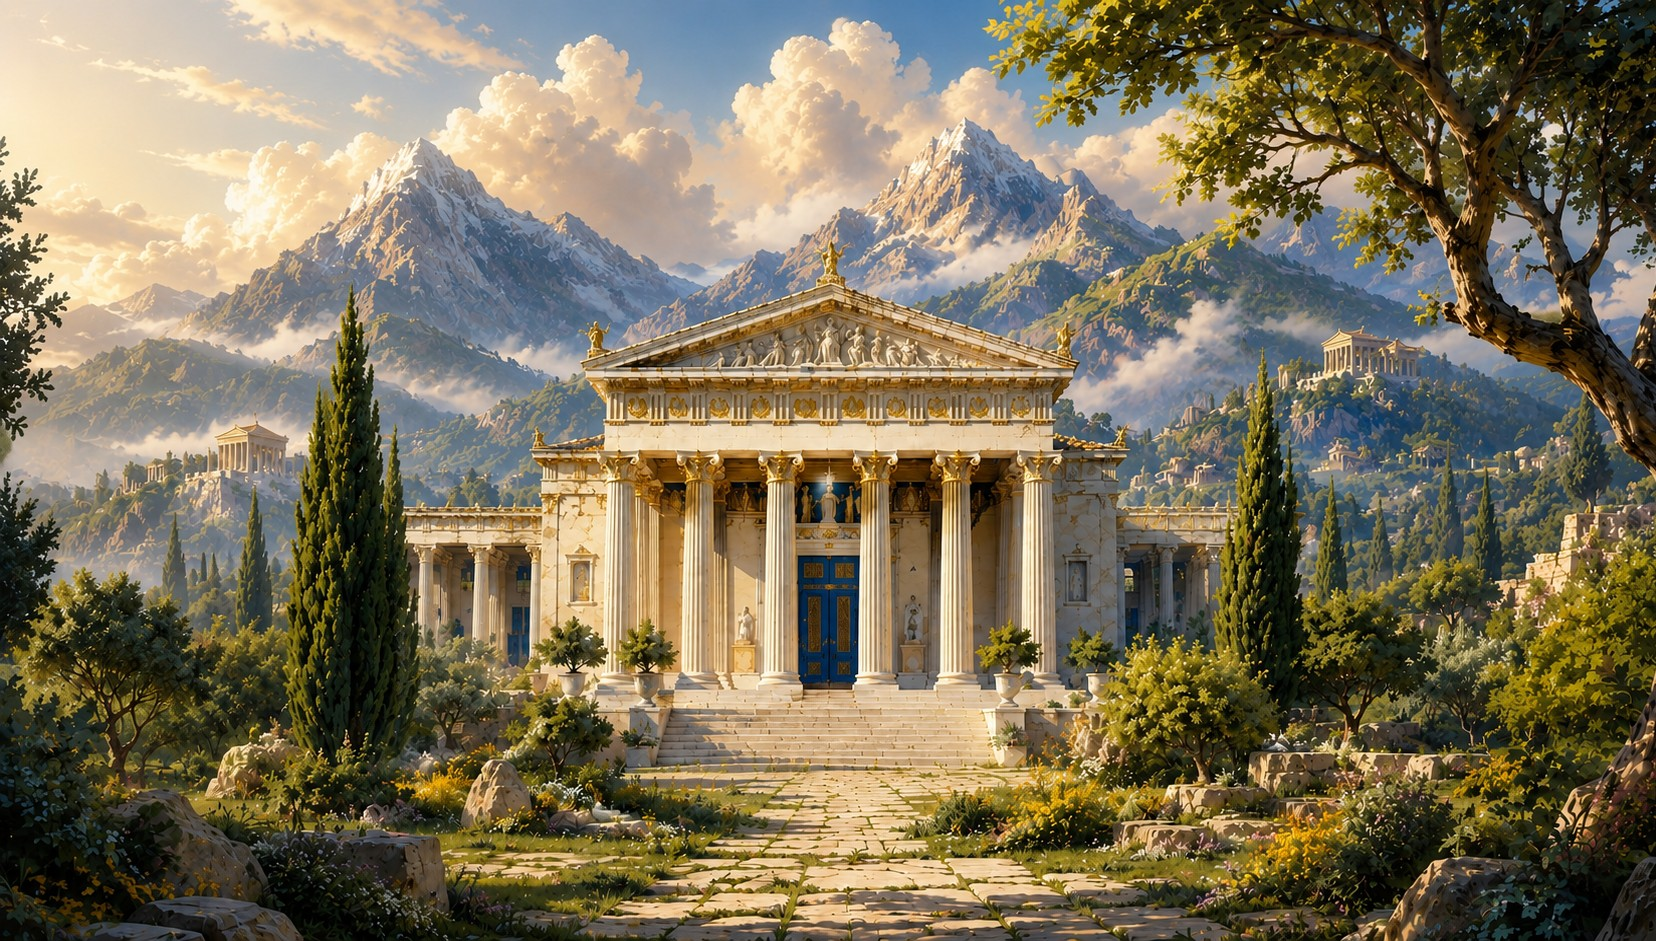
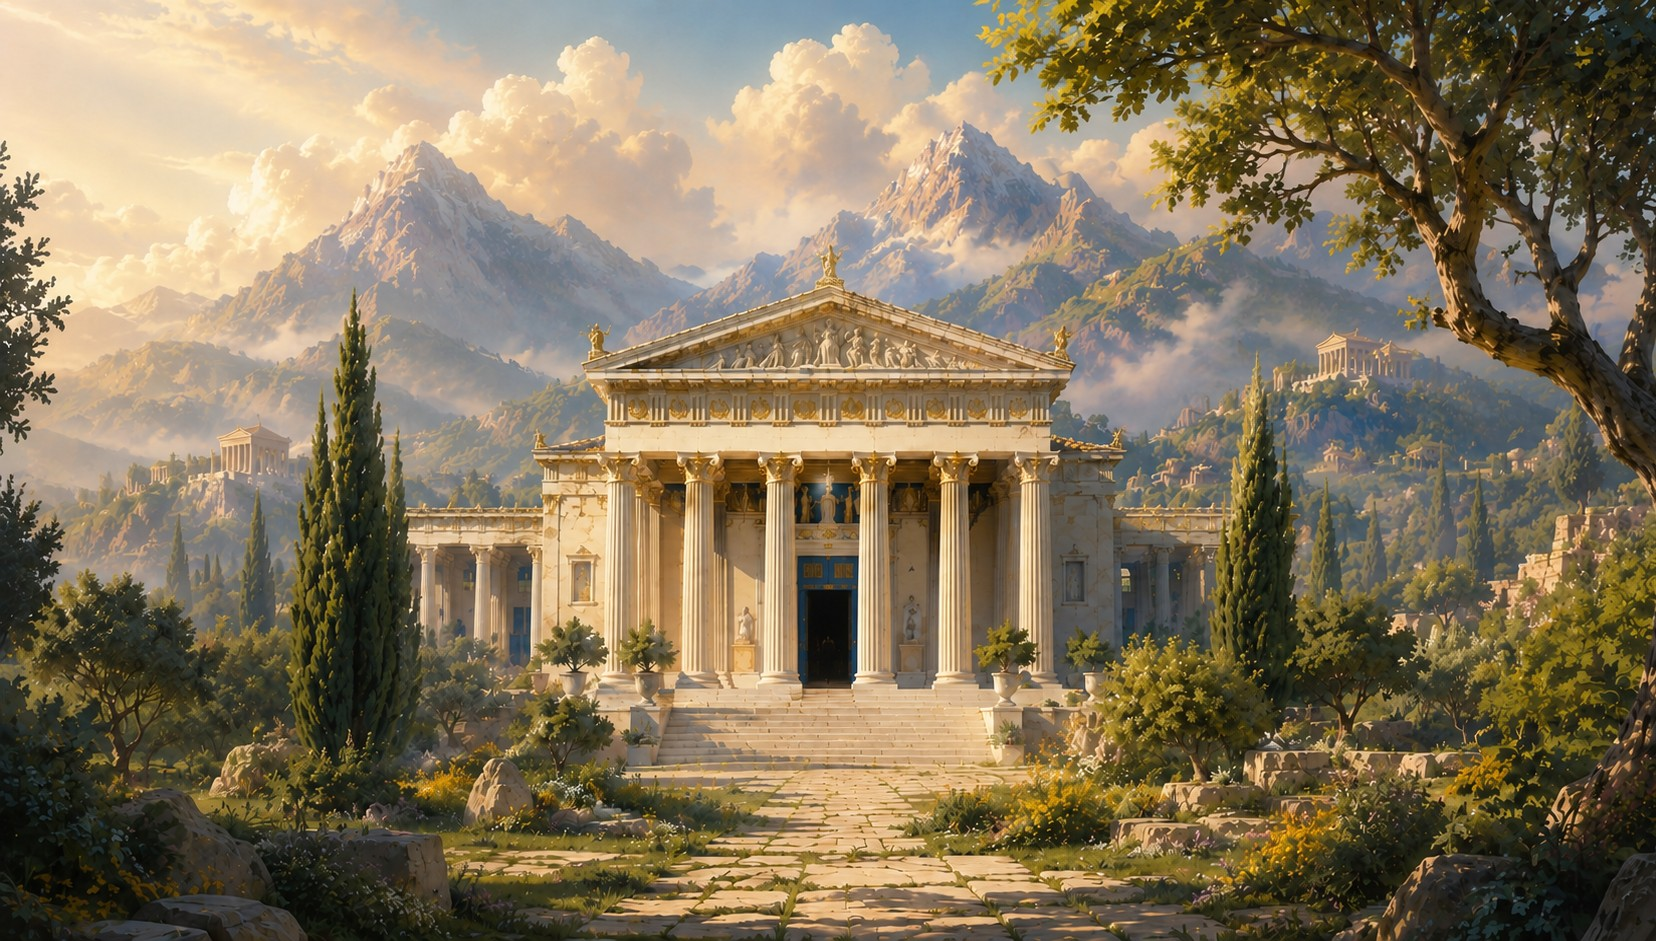
feat: LPヒーローの宮殿扉をスクロール連動で観音開きにする (#264)
ヒーロー背景をドア無し画像に差し替え、宮殿の開口部に左右扉オーバーレイを重ね、スクロール（ズーム）連動で観音開き＋奥から金色の光。扉は背景同様の blur と色調補正で馴染ませ、開口部の比率に合わせてトリミング・サイズ調整。あわせて見出し文言変更・スクロールcue位置調整。

- 扉素材を背景キーイングで透過化＋上下飾りをトリミング → hero-door-left/right.png
- focal point に扉を重ね --zoom で拡大追従、--dooropen(useHeroZoom) で rotateY 観音開き、hero-door-glow
- 扉に blur/saturate/sepia/drop-shadow（馴染み・厚み・重み）、reduced-motion で非表示
- 見出し「言葉をイメージに変えて、／記憶の宮殿をつくる。」、cue を 56px 上げ
- 画像/扉に ?v= キャッシュバスター

frontend のみ。type-check / lint / build 通過。

diff --git a/frontend/src/app/globals.css b/frontend/src/app/globals.css
@@ -135,8 +135,15 @@
 /* --- LP ヒーロー：スクロール連動ズーム（useHeroZoom が --zoom/--fade/--blend を駆動） --- */
 :root {
   --hero-track-vh: 250vh;
+  /* 扉の青ピクセル解析で実測: 画像内の扉中心 x≈50% / y≈63%。
+     object-position をこの値にすると全画面比で扉が viewport の同位置に出る＝
+     focal point・オーバーレイと一致する。 */
   --hero-door-x: 50%;
-  --hero-door-y: 63%;
+  --hero-door-y: 67.5%;
+  /* 扉オーバーレイのサイズ（宮殿の開口部に合わせる）と開き角 */
+  --door-h: 9.6vh;
+  --door-aspect: 0.594;
+  --door-open-deg: 95deg;
 }
 
 .hero-track {
@@ -157,6 +164,7 @@
   --blend: 0;
   --blurpx: 0px;
   --zoombright: 1;
+  --dooropen: 0;
 }
 
 .hero-zoom {
@@ -171,6 +179,73 @@
   transform-origin: var(--hero-door-x) var(--hero-door-y);
   filter: blur(var(--blurpx, 0px)) brightness(var(--zoombright, 1));
   will-change: transform, filter;
+}
+
+/* 宮殿の扉オーバーレイ：focal point に重ね --zoom で一緒に拡大→スクロールで観音開き */
+.hero-doors {
+  position: absolute;
+  left: var(--hero-door-x);
+  top: var(--hero-door-y);
+  height: var(--door-h);
+  /* 宮殿の開口部は細長（幅3.7%×高さ17%＝約0.22）。素材を寄せて充填する */
+  aspect-ratio: var(--door-aspect, 0.36);
+  transform: translate(-50%, -50%) scale(var(--zoom, 1));
+  transform-origin: center;
+  perspective: 1400px;
+  z-index: 5;
+  pointer-events: none;
+  will-change: transform;
+}
+
+.hero-door {
+  position: absolute;
+  top: 0;
+  height: 100%;
+  width: 50%;
+  /* 細長い開口部にあわせて充填（素材より細く）。継ぎ目側を中央へ */
+  object-fit: fill;
+  backface-visibility: hidden;
+  /* 背景と同じ blur＋彩度を落とし暖色寄せで風景に馴染ませる＋落ち影で重み＋開くほど面が陰る */
+  filter: blur(var(--blurpx, 0px))
+    saturate(0.8) sepia(0.08)
+    brightness(calc(1.04 - var(--dooropen, 0) * 0.28))
+    drop-shadow(0 6px 16px rgba(18, 16, 32, 0.5));
+  will-change: transform, filter;
+}
+
+/* 左扉=左ヒンジ。継ぎ目(右端)を中央に寄せ、左軸で奥へ開く */
+.hero-door--left {
+  left: 0;
+  object-position: right center;
+  transform-origin: left center;
+  transform: rotateY(calc(var(--dooropen, 0) * var(--door-open-deg)));
+}
+
+/* 右扉=右ヒンジ。継ぎ目(左端)を中央に寄せ、右軸で奥へ開く */
+.hero-door--right {
+  right: 0;
+  object-position: left center;
+  transform-origin: right center;
+  transform: rotateY(calc(var(--dooropen, 0) * var(--door-open-deg) * -1));
+}
+
+/* 扉の奥から差し込む金色の光（開くほど強く） */
+.hero-door-glow {
+  position: absolute;
+  left: 50%;
+  top: 50%;
+  width: 150%;
+  height: 125%;
+  transform: translate(-50%, -50%);
+  background: radial-gradient(
+    ellipse at center,
+    rgba(255, 244, 214, 0.95) 0%,
+    rgba(255, 216, 134, 0.6) 38%,
+    rgba(255, 200, 90, 0) 72%
+  );
+  opacity: var(--dooropen, 0);
+  z-index: -1;
+  pointer-events: none;
 }
 
 .hero-blur {
@@ -343,7 +418,8 @@
 /* ヒーローの cue は画像下部に固定（他セクションと同位置）。ズームでフェード */
 .hero-cue {
   position: absolute;
-  bottom: 24px;
+  /* ヘッダー(h-14=56px)分だけ上げる */
+  bottom: 80px;
   left: 50%;
   z-index: 40;
   transform: translateX(-50%);
@@ -383,5 +459,9 @@
   }
   .hero-clouds {
     opacity: calc((1 - var(--fade, 0)) * 0.35);
+  }
+  /* ズーム非駆動のため扉オーバーレイは隠す（貼り付き回避） */
+  .hero-doors {
+    display: none;
   }
 }

diff --git a/frontend/src/hooks/useHeroZoom.ts b/frontend/src/hooks/useHeroZoom.ts
@@ -13,6 +13,10 @@ export interface HeroZoomOptions {
   blurStart?: number
   /** progress=1 でのぼかし量(px) */
   maxBlurPx?: number
+  /** 扉が開き始める進捗（0〜1） */
+  doorOpenStart?: number
+  /** 扉が開ききる進捗（0〜1） */
+  doorOpenEnd?: number
 }
 
 const clamp = (v: number, min: number, max: number) => Math.min(max, Math.max(min, v))
@@ -25,7 +29,15 @@ const easeInQuad = (p: number) => p * p
  * prefers-reduced-motion 時はリスナーを張らず、CSS 側で静的化する。
  */
 export function useHeroZoom(opts: HeroZoomOptions = {}) {
-  const { targetScale = 2.6, fadeEnd = 0.55, blendStart = 0.7, blurStart = 0.55, maxBlurPx = 5 } = opts
+  const {
+    targetScale = 2.6,
+    fadeEnd = 0.55,
+    blendStart = 0.7,
+    blurStart = 0.55,
+    maxBlurPx = 5,
+    doorOpenStart = 0.5,
+    doorOpenEnd = 0.9,
+  } = opts
   const trackRef = useRef<HTMLElement | null>(null)
   const stageRef = useRef<HTMLDivElement | null>(null)
   const [reduced, setReduced] = useState(false)
@@ -56,6 +68,9 @@ export function useHeroZoom(opts: HeroZoomOptions = {}) {
       const blend = clamp((progress - blendStart) / (1 - blendStart), 0, 1)
       // 55%まで鮮明→頂点で柔らかく（拡大の粗さをマスク）
       const blurRamp = clamp((progress - blurStart) / (1 - blurStart), 0, 1)
+      // 扉の開き（ズームが寄ってから開く）。滑らかに加減速。
+      const doorRamp = clamp((progress - doorOpenStart) / (doorOpenEnd - doorOpenStart), 0, 1)
+      const doorOpen = doorRamp * doorRamp * (3 - 2 * doorRamp) // smoothstep
 
       // 書き込み（後でまとめて＝レイアウトスラッシュ回避）
       stage.style.setProperty('--zoom', String(scale))
@@ -63,6 +78,7 @@ export function useHeroZoom(opts: HeroZoomOptions = {}) {
       stage.style.setProperty('--blend', String(blend))
       stage.style.setProperty('--blurpx', `${easeInQuad(blurRamp) * maxBlurPx}px`)
       stage.style.setProperty('--zoombright', String(1 + blurRamp * 0.08))
+      stage.style.setProperty('--dooropen', String(doorOpen))
     }
 
     const onScroll = () => {
@@ -84,7 +100,7 @@ export function useHeroZoom(opts: HeroZoomOptions = {}) {
       window.removeEventListener('resize', onScroll)
       cancelAnimationFrame(rafId)
     }
-  }, [targetScale, fadeEnd, blendStart, blurStart, maxBlurPx])
+  }, [targetScale, fadeEnd, blendStart, blurStart, maxBlurPx, doorOpenStart, doorOpenEnd])
 
   return { trackRef, stageRef, reduced }
 }

diff --git a/frontend/src/components/features/landing/HeroScrollZoom.tsx b/frontend/src/components/features/landing/HeroScrollZoom.tsx
@@ -8,7 +8,7 @@ import { ScrollCue } from './ScrollCue'
 // LP ヒーロー：スクロールで画像中央のドアへズームし、終盤に次セクションへブレンドする。
 // 構造: track(縦長) → stage(sticky, 100svh) → 画像/ぼかし/スクリム/ブレンド + テキスト。
 export function HeroScrollZoom() {
-  const { trackRef, stageRef, reduced } = useHeroZoom({ targetScale: 3.8 })
+  const { trackRef, stageRef, reduced } = useHeroZoom({ targetScale: 9 })
 
   return (
     <section ref={trackRef} className="hero-track" data-reduced={reduced ? 'true' : 'false'}>
@@ -18,7 +18,15 @@ export function HeroScrollZoom() {
       >
         {/* 背景画像（ズーム対象・最背面） */}
         {/* eslint-disable-next-line @next/next/no-img-element */}
-        <img src="/hero-palace.jpg" alt="" aria-hidden fetchPriority="high" decoding="async" className="hero-zoom" />
+        <img src="/hero-palace.jpg?v=2" alt="" aria-hidden fetchPriority="high" decoding="async" className="hero-zoom" />
+        {/* 宮殿の扉オーバーレイ：focal point に重ねズームで拡大→スクロールで観音開き・奥から光 */}
+        <div aria-hidden className="hero-doors">
+          <div className="hero-door-glow" />
+          {/* eslint-disable-next-line @next/next/no-img-element */}
+          <img src="/hero-door-left.png?v=2" alt="" decoding="async" className="hero-door hero-door--left" />
+          {/* eslint-disable-next-line @next/next/no-img-element */}
+          <img src="/hero-door-right.png?v=2" alt="" decoding="async" className="hero-door hero-door--right" />
+        </div>
         {/* 流れる雲（上空・スクリムの下で馴染ませる。ズームでフェード） */}
         <div aria-hidden className="hero-clouds" />
         {/* 飛び回る渡鴉（ズームでフェード） */}
@@ -39,9 +47,9 @@ export function HeroScrollZoom() {
             IMAGE PALACE
           </p>
           <h1 className="text-4xl md:text-5xl font-bold tracking-tight mb-6 leading-tight" style={{ color: '#111111' }}>
-            単語をイメージに変えて、
+            言葉をイメージに変えて、
             <br />
-            記憶を設計する。
+            記憶の宮殿をつくる。
           </h1>
           <p className="text-base md:text-lg max-w-md mb-10" style={{ color: '#4A4A4A' }}>
             AIが単語を画像カードに変換。
